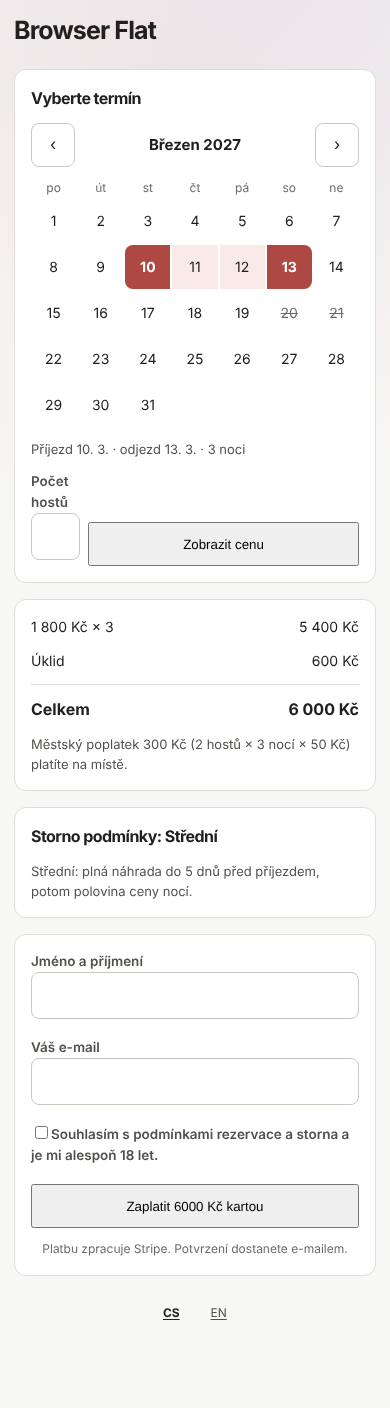
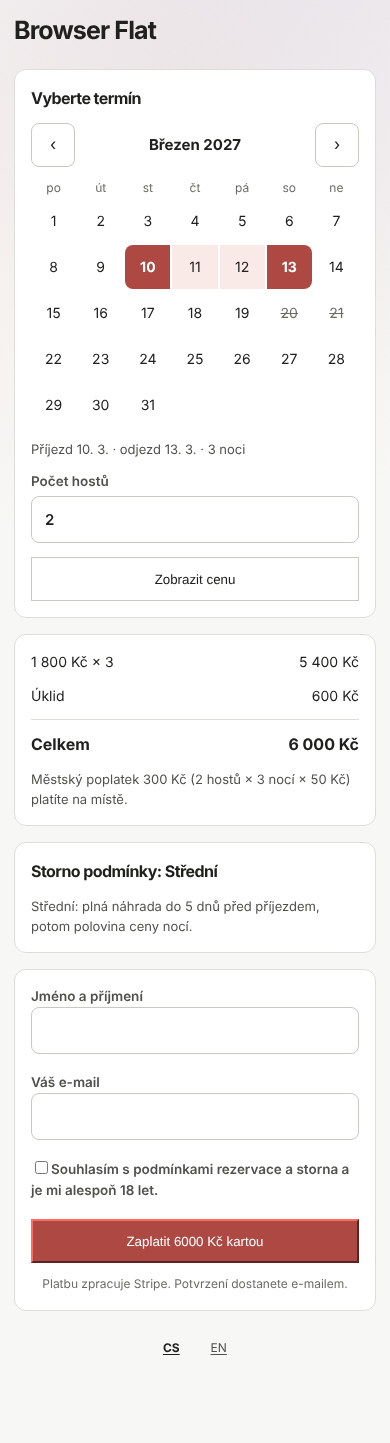
Stack booking guest row and colour booking buttons at 390 px
Claude-Session: https://claude.ai/code/session_01Cjmb7RS2bQsYrj7Q1Fto9w

diff --git a/App/app/templates/property_page.html b/App/app/templates/property_page.html
@@ -23,13 +23,17 @@ a.pp-bk-day:hover { background: var(--surface-2); }
 .pp-bk-day[data-state="end"] { border-radius: 0 var(--radius-2) var(--radius-2) 0; }
 .pp-bk-row { display: flex; justify-content: space-between; gap: var(--space-3); }
 .pp-bk-total { border-top: 1px solid var(--line); padding-top: var(--space-3); font-size: var(--size-16); font-weight: 700; }
-.pp-bk-guests { display: flex; gap: var(--space-2); align-items: flex-end; }
-.pp-bk-guests .ui-field { flex: 1; }
+.pp-bk-guests { display: flex; flex-direction: column; gap: var(--space-2); align-items: stretch; }
+.pp-bk-guests .ui-field { display: flex; flex-direction: column; gap: var(--space-1); }
+.pp-bk-guests .ui-input { width: 100%; min-height: 44px; }
 .pp-bk-error { background: var(--accent-soft); border-radius: var(--radius-2); padding: var(--space-3); margin: 0; color: var(--ink); }
 .pp-bk-lang { text-align: center; font-size: var(--size-12); color: var(--ink-3); }
 .pp-bk-lang a { display: inline-flex; align-items: center; justify-content: center; min-width: 44px; min-height: 44px; color: var(--ink-2); }
 .pp-bk-lang a[aria-current="true"] { color: var(--ink); font-weight: 700; }
 .pp-bk .ui-btn { width: 100%; min-height: 44px; }
+.pp-bk .ui-btn-primary { background: var(--accent); color: var(--on-accent); border-color: var(--accent); }
+.pp-bk .ui-btn-primary:hover { background: var(--accent-hover); }
+.pp-bk .ui-btn-secondary { background: var(--surface); color: var(--ink); border: 1px solid var(--line-2); }
 @media (max-width: 480px) { .pp-bk { max-width: none; } }
 </style>
 <meta property="og:title" content="{{ page.og.title }}">
